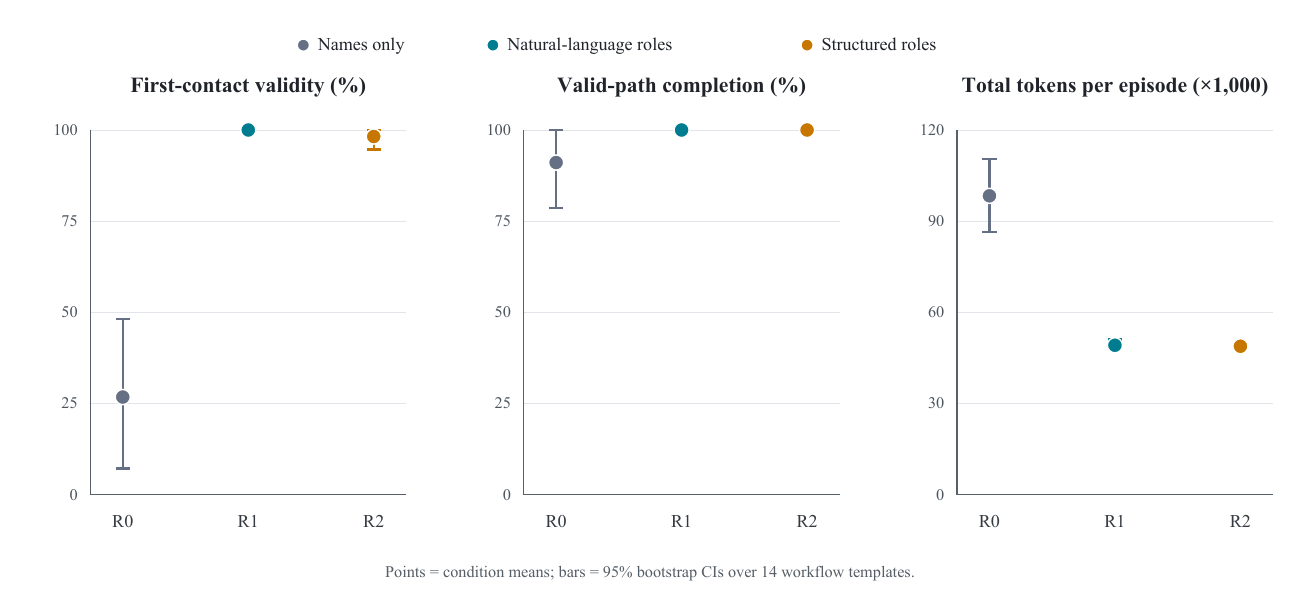
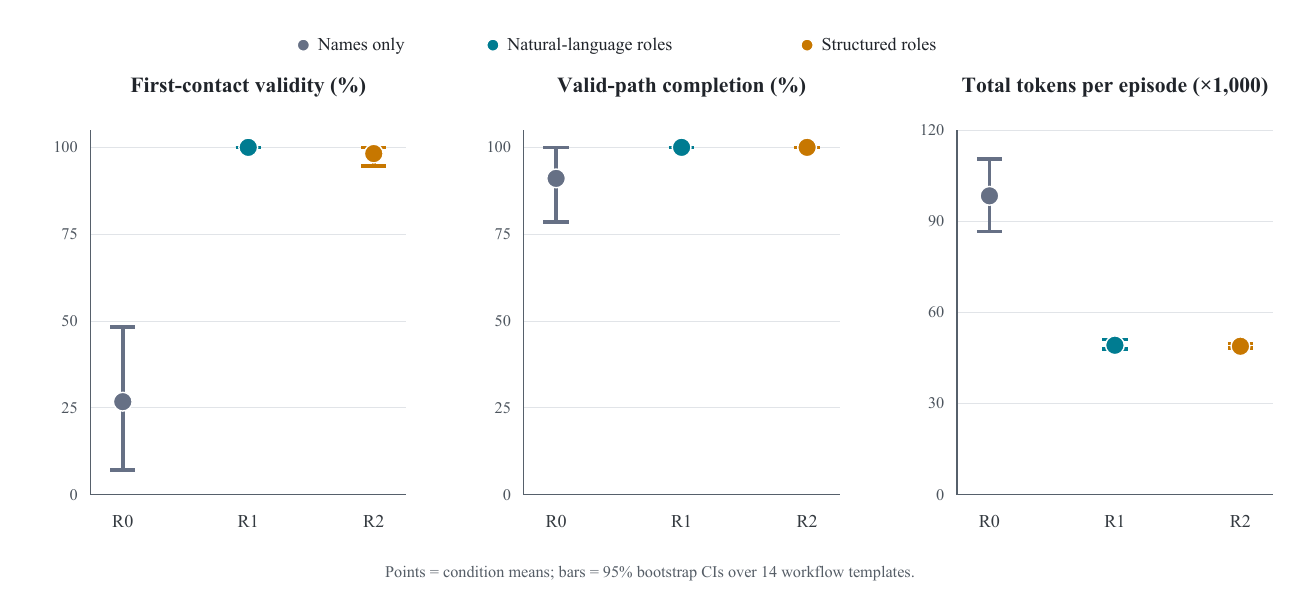
Improve visibility of Study 2 figure intervals

diff --git a/research/study2/derived/figures/make_figures.py b/research/study2/derived/figures/make_figures.py
@@ -130,15 +130,15 @@ def panel_means(d, rows, x, title, metric, bounds, ticks, seed, value_scale=1, p
         yy=bottom+(est-ymin)/(ymax-ymin)*(top-bottom)
         ylo=bottom+(max(ymin,lo)-ymin)/(ymax-ymin)*(top-bottom)
         yhi=bottom+(min(ymax,hi)-ymin)/(ymax-ymin)*(top-bottom)
-        error_point(d,xx,yy,ylo,yhi,COLORS[cond],1.3,4)
-        marker(d,xx,yy,cond,4.2)
+        error_point(d,xx,yy,ylo,yhi,COLORS[cond],2.0,7)
+        marker(d,xx,yy,cond,5.2)
         add_text(d,xx,bottom-18,cond,size=10,anchor="middle",color="#343A40")
 
 def fig1(rows):
     W,H=720,340; d=Drawing(W,H)
     legend(d,168,H-28,10)
-    panel_means(d,rows,2,"First-contact validity (%)","strict_first_information_step_valid",(0,100),[0,25,50,75,100],101,value_scale=100)
-    panel_means(d,rows,242,"Valid-path completion (%)","valid_path_recomputed",(0,100),[0,25,50,75,100],201,value_scale=100)
+    panel_means(d,rows,2,"First-contact validity (%)","strict_first_information_step_valid",(0,105),[0,25,50,75,100],101,value_scale=100)
+    panel_means(d,rows,242,"Valid-path completion (%)","valid_path_recomputed",(0,105),[0,25,50,75,100],201,value_scale=100)
     panel_means(d,rows,482,"Total tokens per episode (×1,000)","total_tokens",(0,120),[0,30,60,90,120],301,value_scale=.001)
     add_text(d,W/2,20,"Points = condition means; bars = 95% bootstrap CIs over 14 workflow templates.",size=9,color="#555D66",anchor="middle")
     save(d,"figure_01_profile_effects")

diff --git a/research/study2/derived/figures/figure-catalog.md b/research/study2/derived/figures/figure-catalog.md
@@ -7,7 +7,7 @@ All figures are generated from the trace-recomputed v0.4 confirmatory set (168 e
 - **Files:** `figure_01_profile_effects.pdf` / `.svg`
 - **Purpose:** Show how profile information relates to first-contact validity, complete valid-path success, and total model-token use.
 - **Panels:** (A) strict first information request to the admissible knowledge holder (%); (B) valid-path completion (%); (C) input plus output tokens per episode (thousands). Conditions are names only (R0), natural-language profile (R1), and structured profile (R2).
-- **Caption:** Points are condition means over 56 episodes (28 task variants × two fixed model configurations). Whiskers are 95% percentile bootstrap intervals obtained by resampling 14 workflow-template clusters. R1/R2 profile facts are semantically matched; their text length is not matched.
+- **Caption:** Points are condition means over 56 episodes (28 task variants × two fixed model configurations). Whiskers are 95% percentile bootstrap intervals obtained by resampling 14 workflow-template clusters. A zero-width interval coincides with its point (R1's first-contact validity is 100% in every template). R1/R2 profile facts are semantically matched; their text length is not matched.
 - **Observation:** R1 and R2 substantially exceed R0 on first-contact validity and use roughly half the tokens. Valid-path completion has a smaller difference because R0 already succeeds in most episodes.
 - **Interpretation:** Role information appears to improve routing efficiency in this simulator; the figure alone does not establish improvement in deployed organizations.
 - **Caveat:** The CIs are template-cluster intervals; condition-level R1/R2 success intervals are degenerate at 100% because every observed episode succeeded.
